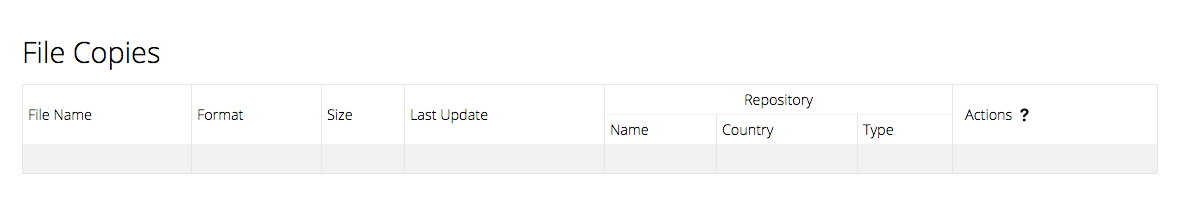
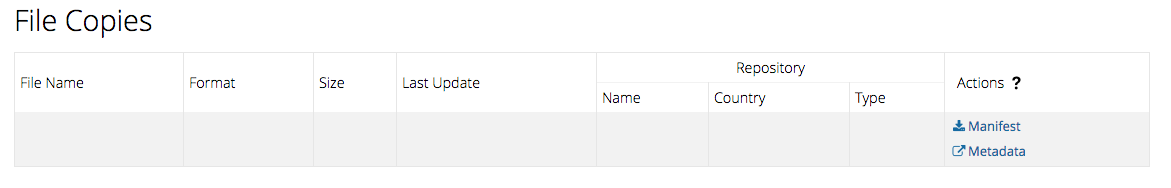
updated repositories documentation

diff --git a/docs/portal/repositories.md b/docs/portal/repositories.md
@@ -53,15 +53,21 @@ The summary section provides general information on the file.
 
 #### File Copies
 
-The File Copies section provides information on the file a means to download [Manifest](repositories.md#manifests) and Metadata for the file.
+The File Copies section provides information on the file entity, a means to download [Manifest](repositories.md#manifests) and see/download Metadata for the file.
 
 [![](images/file-entity-file-copies.png)](images/file-entity-file-copies.png "Click on the image to see it in full")
 
 #### Donor
 
+The Donor section provides information on the Donor that corresponds to the file selected.
+
+[![](images/file-entity-donor.png)](images/file-entity-donor.png "Click on the image to see it in full")
+
 #### BAM Statistics
 
-iobio
+The BAM Stats section provides general information on the BAM file selected. This section is _only_ visible if the file selected is a BAM file _and_ the repository the file belongs in is AWS or Collaboratory
+
+[![](images/file-entity-iobio.png)](images/file-entity-iobio.png "Click on the image to see it in full")
 
 ### Manifests
 
